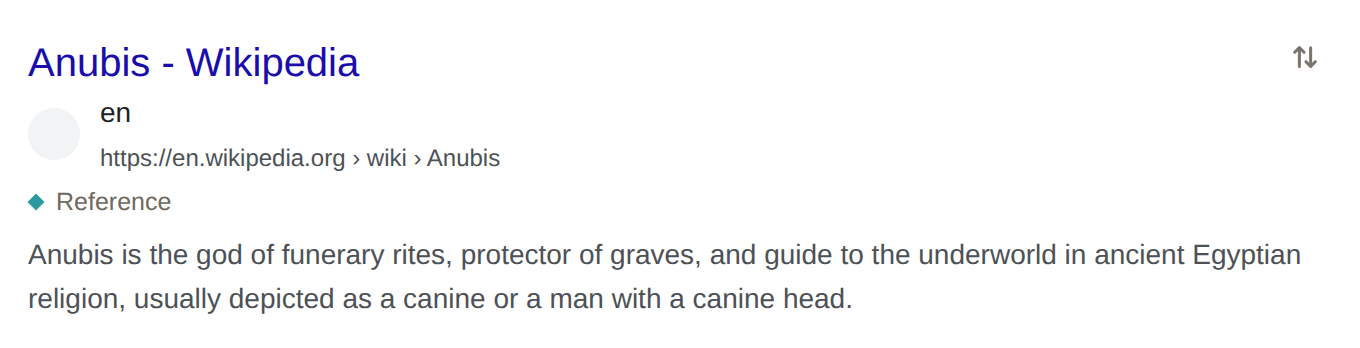
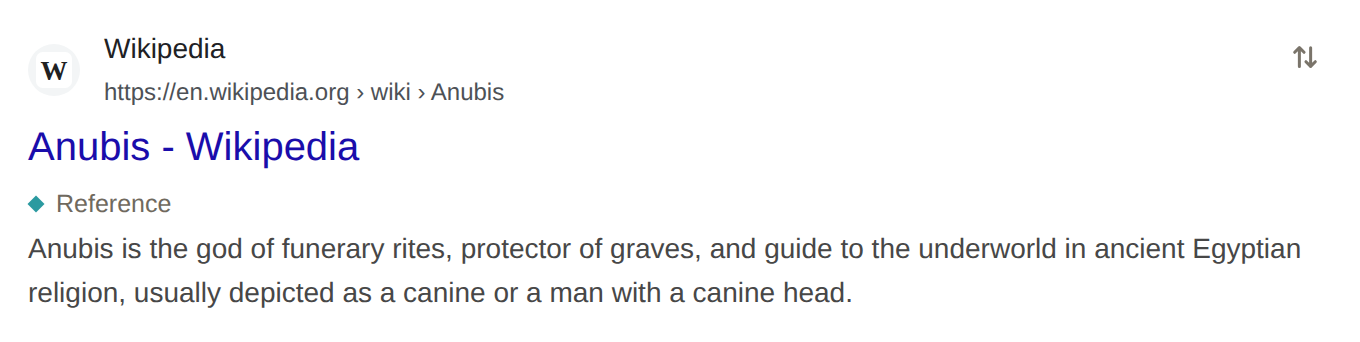
Make the Google test page look like Google, and add dark versions of the before and after

diff --git a/docs/.vitepress/theme/before-after.ts b/docs/.vitepress/theme/before-after.ts
@@ -1,15 +1,18 @@
 import { h } from 'vue';
+import afterDark from '../../img/after-dark.png';
 import after from '../../img/after.png';
+import beforeDark from '../../img/before-dark.png';
 import before from '../../img/before.png';
 
-// The homepage's before and after, between its heading and the features: one search
-// on a test page, without and with Anubis. `node e2e/run.mjs docs` redraws both
-// pictures, and the same pair as a slide in docs/public/before-after.png.
+// The homepage's before and after, below its heading: one search on a test page,
+// without and with Anubis, in the site's light or dark mode. `node e2e/run.mjs docs`
+// redraws the pictures, and the same pairs as slides in docs/public/.
 
-const shot = (label: string, src: string, alt: string, after = false) =>
+const shot = (label: string, [light, dark]: [string, string], alt: string, after = false) =>
   h('div', { class: after ? 'shot after' : 'shot' }, [
     h('p', { class: 'label' }, label),
-    h('img', { src, alt, width: 720, height: 880 }),
+    h('img', { class: 'light-only', src: light, alt, width: 868, height: 920, loading: 'lazy' }),
+    h('img', { class: 'dark-only', src: dark, alt, width: 868, height: 920, loading: 'lazy' }),
   ]);
 
 export default function BeforeAfter() {
@@ -17,12 +20,12 @@ export default function BeforeAfter() {
     h('div', { class: 'shots' }, [
       shot(
         'Without Anubis',
-        before,
+        [before, beforeDark],
         'A search for anubis: an AI Overview first, then results including a Fandom wiki, then a video panel.',
       ),
       shot(
         'With Anubis',
-        after,
+        [after, afterDark],
         'The same search with Anubis: a line saying it raised 1 and hid 2 of 7 results and removed the AI answer and panels, then results tagged Reference or Paywall, with the Fandom wiki shown as hidden by your list.',
         true,
       ),

diff --git a/docs/.vitepress/theme/brand.css b/docs/.vitepress/theme/brand.css
@@ -74,6 +74,14 @@
 .before-after .after img {
   border-color: var(--vp-c-brand-3);
 }
+/* Each picture comes in light and dark, following the site's mode. */
+.before-after .dark-only,
+.dark .before-after .light-only {
+  display: none;
+}
+.dark .before-after .dark-only {
+  display: block;
+}
 .before-after figcaption {
   max-width: 40rem;
   font-size: 13px;
@@ -94,5 +102,15 @@
   }
   .before-after .shots {
     gap: 32px;
+  }
+}
+/* Below 960px the hero with its logo is centred; so are these. */
+@media (max-width: 959px) {
+  .before-after .label,
+  .before-after figcaption {
+    text-align: center;
+  }
+  .before-after figcaption {
+    margin: 0 auto;
   }
 }

diff --git a/docs/experiments.md b/docs/experiments.md
@@ -90,7 +90,8 @@ Modelled on [uBlacklist's documentation](https://ublacklist.github.io/docs/intro
 - **Tried:** VitePress 1.6.4, the current stable release. It pulls in Vite 5 and an esbuild with published advisories for their development servers (`npm audit`: two moderate, one high). **Shipped:** VitePress 2.0.0-alpha.20, which uses the same Vite 8 as the extension and audits clean. It only builds the documentation, so a pre-release costs little; move to 2.0 stable when it's out.
 - **Not used:** Hugo, which uBlacklist's site uses. It would need a second toolchain alongside Node and the Nix flake.
 - **Screenshots** come from the e2e mock pages (`node e2e/run.mjs docs`), so they can be regenerated after interface changes instead of retaken by hand. They show test pages, not the real engines, and the captions say so.
-- **The homepage** showed only the logo, which says nothing about what Anubis does. It now shows one search without and with Anubis, side by side (stacked on phones), between the heading and the features: the AI answer and panels removed, a site hidden, results tagged. Both pictures are cut to the same box, the search box and the results column, which also leaves out the mock's engine name. The same pair is rendered as a 1920×1080 slide for talks and posts. There, the pictures run off the bottom edge rather than shrinking to fit, since they're tall shots in a wide frame and shrunk they'd be too small to read.
+- **The homepage** showed only the logo, which says nothing about what Anubis does. It now shows one search without and with Anubis below the heading and logo, side by side (stacked on phones): the AI answer and panels removed, a site hidden, results tagged. Both pictures are cut to the same box: the logo, the search box and the results column. They come in light and dark, following the site's mode, and each pair is also rendered as a 1920×1080 slide for talks and posts. On the slides, the pictures run off the bottom edge rather than shrinking to fit, since they're tall shots in a wide frame and shrunk they'd be too small to read.
+- **Tried:** the pictures without the logo, over the old Google test page (grey boxes for every panel, blank site icons, "AI Mode" as a blue link that read as the current tab). It looked fake. Letters in Google's colours didn't pass for the wordmark either. The test page now follows Google's layout: the wordmark (from the CC0 collection at github.com/gilbarbara/logos, recoloured to Google's colours), the search box's buttons, **All** underlined as the current tab, site names and icons above each title, and panels with headings instead of grey boxes. Only the look changed: the page structure the tests read is the same, and the full e2e run gave identical output before and after.
 - **Images** live in `docs/img/` and pages link to them relatively, so the Markdown reads correctly on GitHub as well as on the site. Links to repository files outside `docs/` are full GitHub links, since the site can't serve them.
 - The lists directory page renders `lists/directory.json` at build time, so it can't drift from what the extension offers.
 - Publishing uses GitHub Pages from a workflow. Pages has to be switched to "GitHub Actions" in the repository settings once; until then the deploy step fails.

diff --git a/CLAUDE.md b/CLAUDE.md
@@ -33,7 +33,7 @@ Firefox is the default target (`browser: 'firefox'` in `wxt.config.ts`). The `:c
 - `.github/workflows/engines.yml` runs weekly: when uBlacklist changes its rules for an engine Anubis supports, it opens an issue labelled `engines` (`.github/scripts/watch-engines.mjs`, which maps uBlacklist's files to engines; keep it in step with `utils/engines.ts`)
 - `npm run zip` / `npm run zip:chrome`: package for the store. `store/README.md` has the listings, privacy answers and release steps; `node store/render.mjs` redraws the store icon and promo tile.
 - `.github/workflows/release.yml` releases on a `v*` tag that matches `package.json`'s version: CI, both zips, a GitHub Release, then `wxt submit` to Chrome, Firefox and Edge after approval in the `release` environment, which holds the store keys
-- `npm run docs:dev` / `npm run docs:build`: the documentation site (VitePress) from `docs/`. The build fails on a broken link. `.github/workflows/docs.yml` builds it on pull requests and publishes it to GitHub Pages from main. `node e2e/run.mjs docs` regenerates its screenshots in `docs/img/` from the mock pages, including the homepage's before and after (`docs/.vitepress/theme/before-after.ts`) and the same pair as a 1920×1080 slide (`docs/public/before-after.png`); rerun it after changing anything they show.
+- `npm run docs:dev` / `npm run docs:build`: the documentation site (VitePress) from `docs/`. The build fails on a broken link. `.github/workflows/docs.yml` builds it on pull requests and publishes it to GitHub Pages from main. `node e2e/run.mjs docs` regenerates its screenshots in `docs/img/` from the mock pages, including the homepage's before and after in light and dark (`docs/.vitepress/theme/before-after.ts`) and the same pairs as 1920×1080 slides (`docs/public/before-after-light.png`, `-dark.png`); rerun it after changing anything they show.
 
 ## Checking on live pages
 

diff --git a/docs/index.md b/docs/index.md
@@ -5,6 +5,9 @@ hero:
   name: Anubis
   text: Hide, rank and tag search results
   tagline: On the search engine you already use, with lists anyone can publish.
+  image:
+    src: /anubis.svg
+    alt: The Anubis logo, a jackal's head in gold
   actions:
     - theme: brand
       text: Get started
